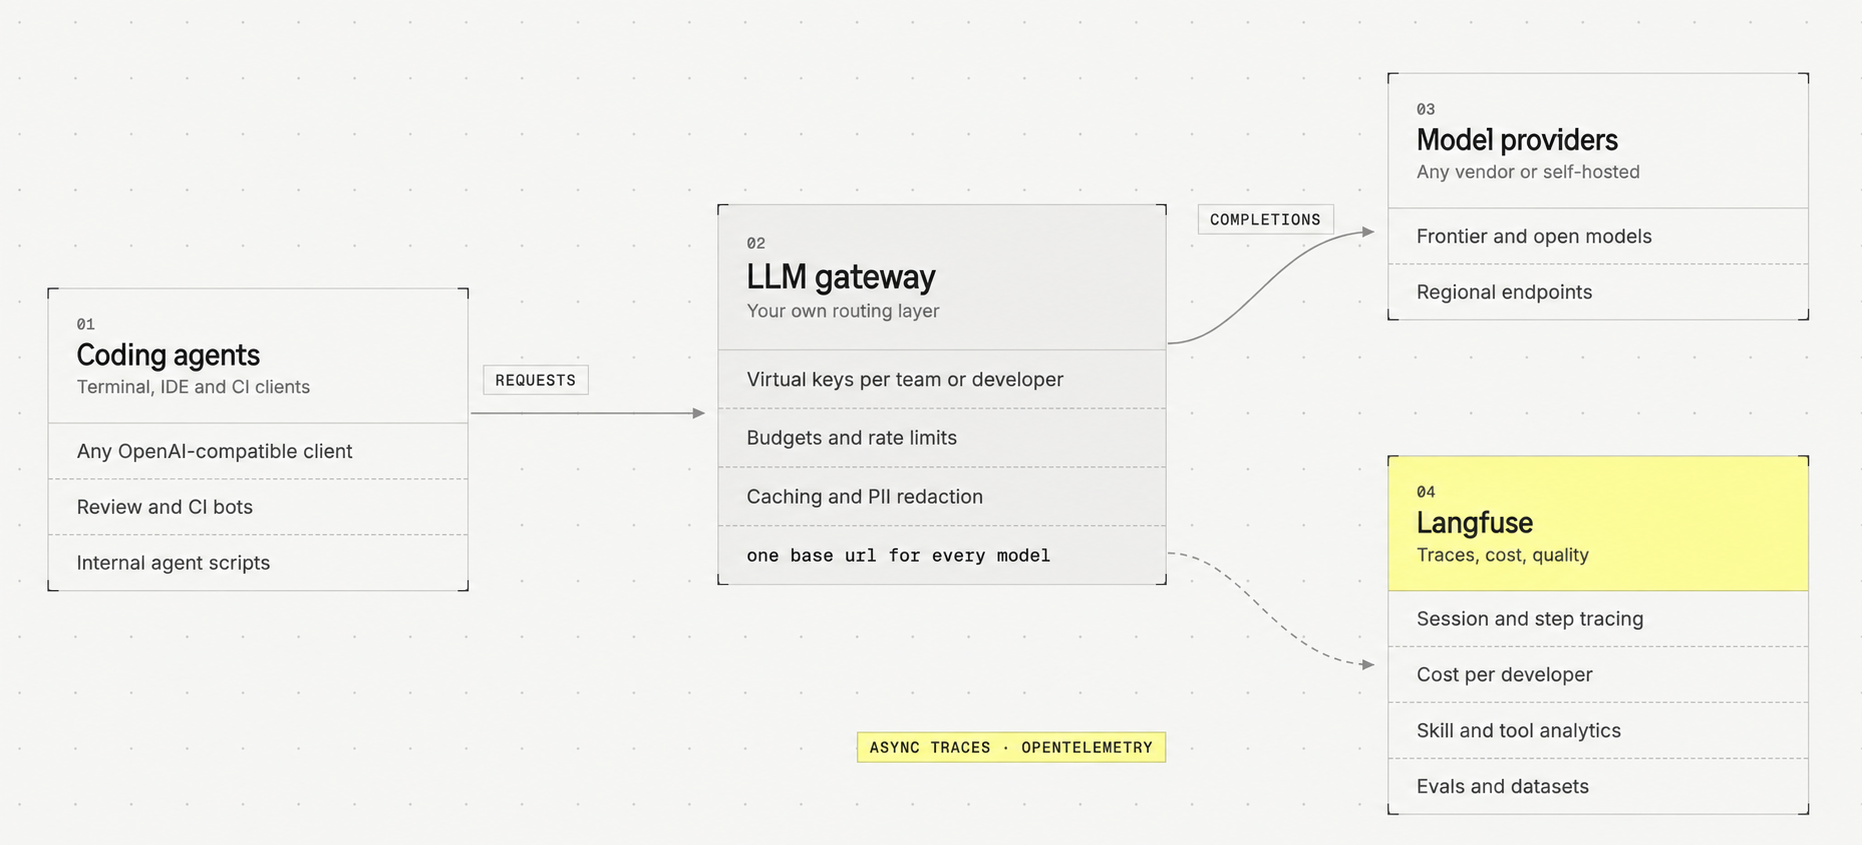
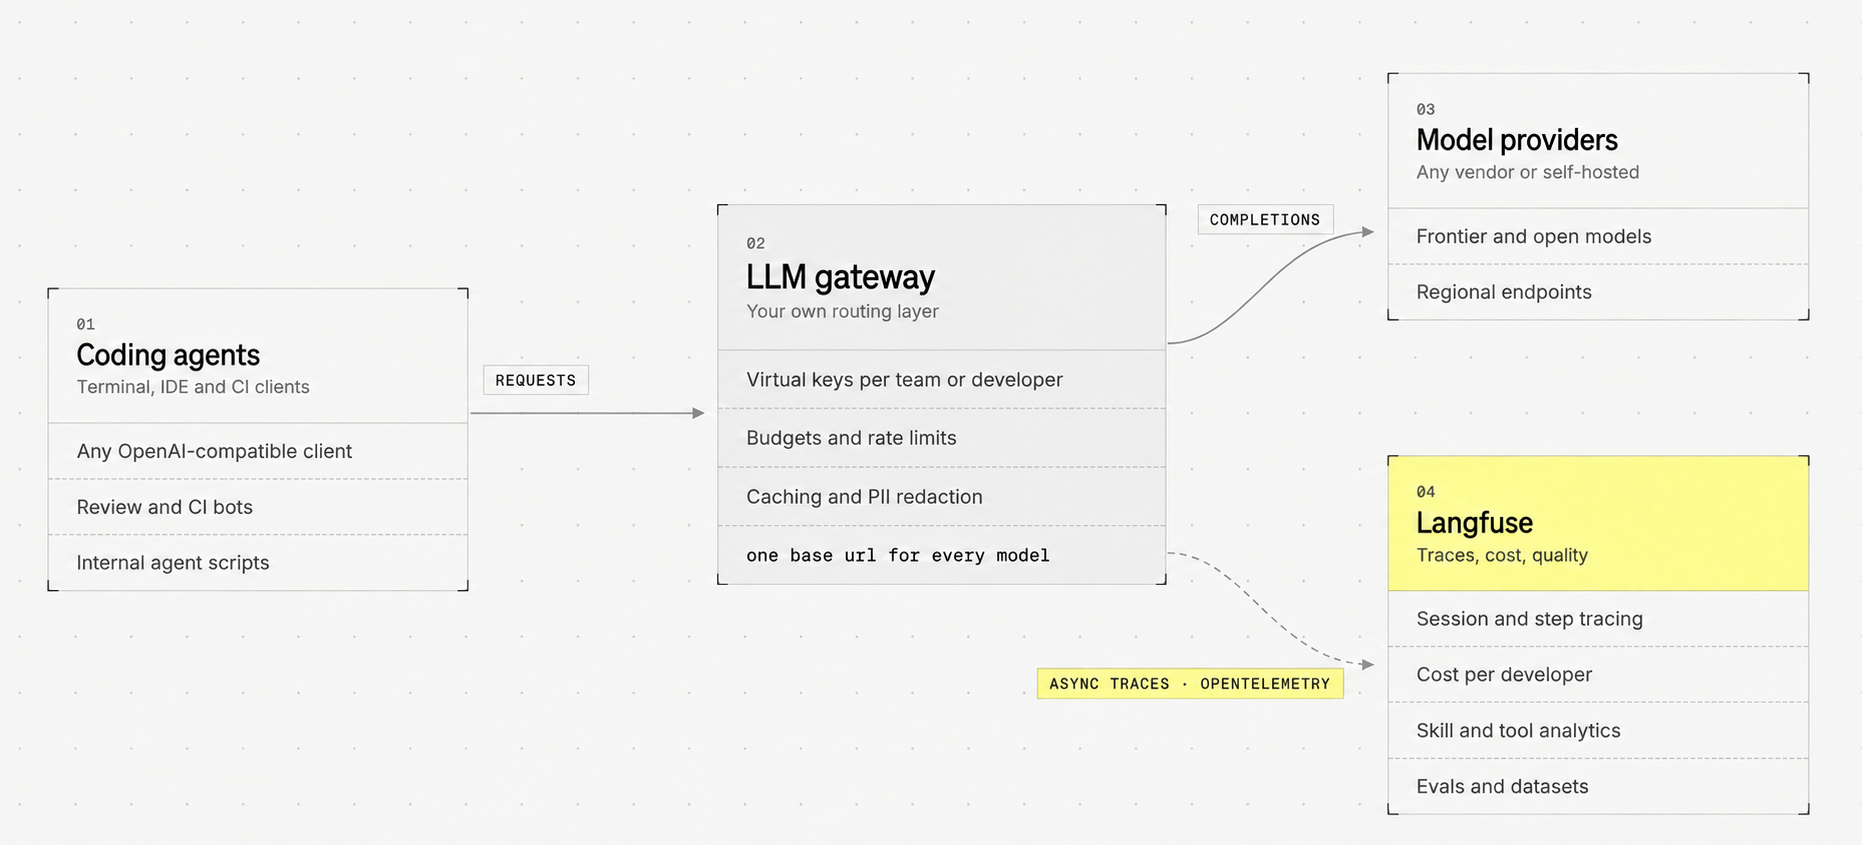
Stabilize use-case images and refine tracing copy

diff --git a/components/chat-agents/ValueInsightsAccordion.tsx b/components/chat-agents/ValueInsightsAccordion.tsx
@@ -73,6 +73,22 @@ export function ValueInsightsAccordion({
   const activeItem = items.find((item) => item.id === activeItemId) ?? items[0];
   const activeImageSrc = activeItem?.imageSrc ?? imageSrc;
   const activeImageAlt = activeItem?.imageAlt ?? imageAlt;
+  const hasItemImages = items.some((item) => item.imageSrc);
+  const mediaImages = Array.from(
+    new Map(
+      items.map((item) => {
+        const src = item.imageSrc ?? imageSrc;
+        return [
+          src,
+          {
+            src,
+            alt: item.imageAlt ?? imageAlt,
+            className: item.imageClassName,
+          },
+        ];
+      }),
+    ).values(),
+  );
 
   function handleValueChange(value: string) {
     if (value) setActiveItemId(value);
@@ -90,22 +106,29 @@ export function ValueInsightsAccordion({
           <div
             className={cn(
               "relative w-full",
-              activeItem?.imageSrc
-                ? "aspect-square lg:aspect-auto lg:h-full lg:min-h-[200px]"
-                : "h-full min-h-[200px]",
+              // A shared portrait viewport keeps every detail screenshot at the
+              // same width, including the tallest trace, without cropping it.
+              hasItemImages ? "aspect-[7/8]" : "h-full min-h-[200px]",
             )}
           >
-            <Image
-              src={activeImageSrc}
-              alt={activeImageAlt}
-              fill
-              className={cn(
-                "object-top",
-                activeItem?.imageSrc ? "object-contain" : "object-cover",
-                activeItem?.imageClassName,
-              )}
-              unoptimized
-            />
+            {mediaImages.map((image) => (
+              <Image
+                key={image.src}
+                src={image.src}
+                alt={image.src === activeImageSrc ? image.alt : ""}
+                aria-hidden={image.src !== activeImageSrc}
+                fill
+                className={cn(
+                  "transition-opacity duration-200 motion-reduce:transition-none",
+                  hasItemImages
+                    ? "object-contain object-left-top"
+                    : "object-cover object-top",
+                  image.className,
+                  image.src === activeImageSrc ? "opacity-100" : "opacity-0",
+                )}
+                unoptimized
+              />
+            ))}
           </div>
         ) : (
           <Image

diff --git a/components/coding-agents/content.ts b/components/coding-agents/content.ts
@@ -33,7 +33,7 @@ export const codingAgentsHooksInsights: InsightItem[] = [
     id: "execution",
     title: "Trace the full coding-agent session",
     description:
-      "Log tool calls, retries, skill usage, and model turns — not only the bill. Reconstruct what the agent did so you can debug loops, bloated context, and skills that need a rewrite.",
+      "Log tool calls, retries, skill usage, and model turns. Reconstruct what the agent did so you can debug loops, bloated context, and skills that need a rewrite.",
     href: "/resources/engineering/coding-agent-tracing",
     ctaLabel: "Tracing coding agents",
   },

diff --git a/components/chat-agents/content.ts b/components/chat-agents/content.ts
@@ -21,7 +21,7 @@ export const chatAgentsInsights: InsightItem[] = [
     ctaLabel: "Cost tracking",
     imageSrc: "/images/chat-agents/interaction-cost.png",
     // Clip the black capture border at the screenshot's left edge.
-    imageClassName: "object-left-top [clip-path:inset(0_0_0_1px)]",
+    imageClassName: "[clip-path:inset(0_0_0_1px)]",
     imageAlt:
       "Chatbot interaction showing the breakdown of input, cached input, output, and total cost",
   },

diff --git a/md-override/coding-agents.md b/md-override/coding-agents.md
@@ -53,7 +53,7 @@ Hooks are per-machine and user-serviceable. Treat them as telemetry, not enforce
 
 ### Trace the full coding-agent session
 
-Log tool calls, retries, skill usage, and model turns — not only the bill. Reconstruct what the agent did so you can debug loops, bloated context, and skills that need a rewrite.
+Log tool calls, retries, skill usage, and model turns. Reconstruct what the agent did so you can debug loops, bloated context, and skills that need a rewrite.
 
 [Tracing coding agents](/resources/engineering/coding-agent-tracing)
 
